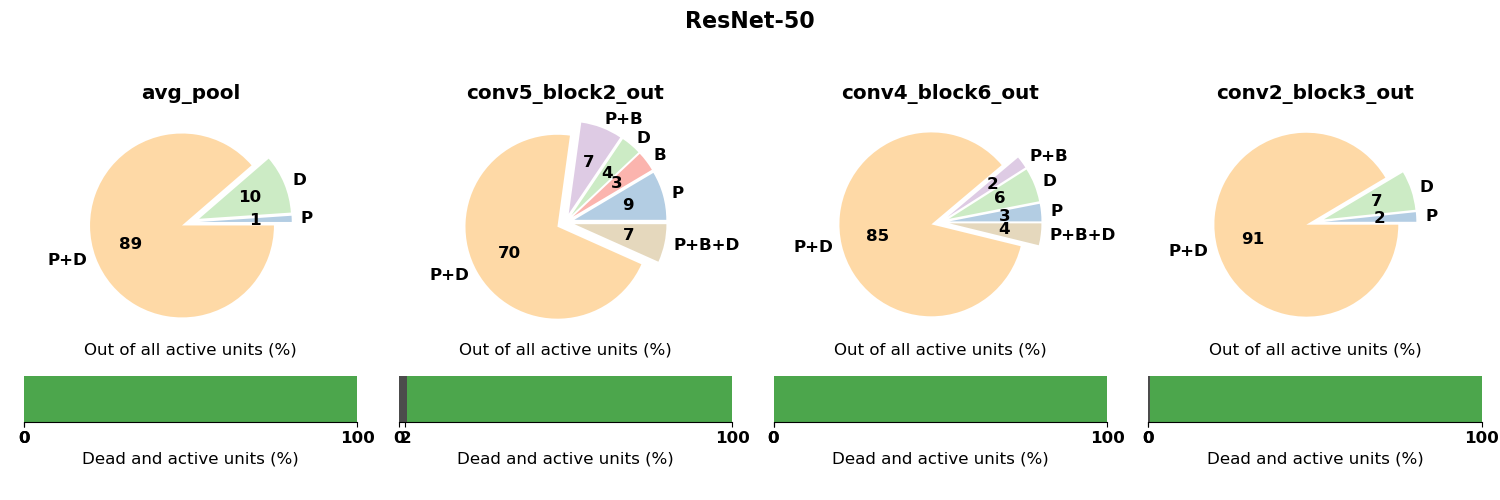
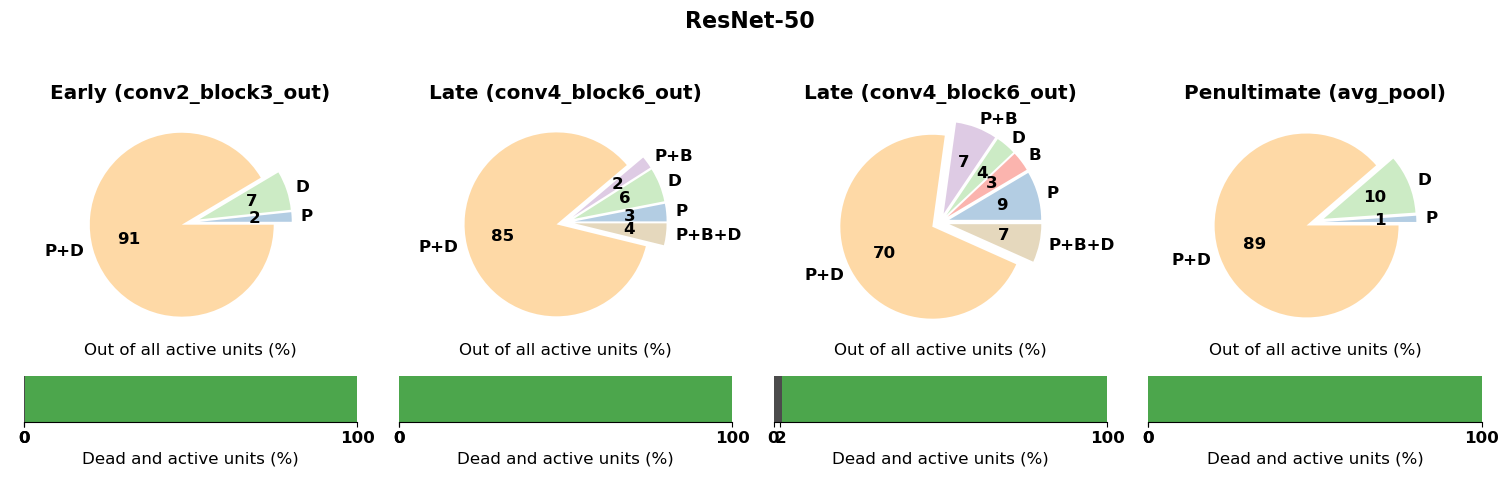
improve figs: make early-mid-late-penultimate for pies

diff --git a/figures_paper.py b/figures_paper.py
@@ -1780,11 +1780,42 @@ def unit_chart_visualization_piechart():
             )
 
             ax.set_xlabel('Out of all active units (%)')
-            ax.set_title(output_layer, fontweight='bold')
+            # ax.set_title(output_layer, fontweight='bold')
+            if model_name == 'vgg16': 
+                model_name_plot = 'VGG-16'
+                if output_layer == 'block2_pool':
+                    output_layer_plot = 'Early (block2_pool)'
+                elif output_layer == 'block4_pool':
+                    output_layer_plot = 'Mid (block4_pool)'
+                elif output_layer == 'block5_pool':
+                    output_layer_plot = 'Late (block5_pool)'
+                elif output_layer == 'fc2':
+                    output_layer_plot = 'Penultimate (fc2)'
+
+            elif model_name == 'resnet50': 
+                model_name_plot = 'ResNet-50'
+                if output_layer == 'conv2_block3_out':
+                    output_layer_plot = 'Early (conv2_block3_out)'
+                elif output_layer == 'conv3_block4_out':
+                    output_layer_plot = 'Mid (conv3_block4_out)'
+                elif output_layer == 'conv4_block6_out':
+                    output_layer_plot = 'Late (conv4_block6_out)'
+                elif output_layer == 'avg_pool':
+                    output_layer_plot = 'Penultimate (avg_pool)'
+
+            elif model_name == 'vit_b16': 
+                model_name_plot = 'ViT-B/16'
+                if output_layer == 'layer_3':
+                    output_layer_plot = 'Early (layer_3)'
+                elif output_layer == 'layer_6':
+                    output_layer_plot = 'Mid (layer_6)'
+                elif output_layer == 'layer_9':
+                    output_layer_plot = 'Late (layer_9)'
+                elif output_layer == 'layer_12':
+                    output_layer_plot = 'Penultimate (layer_12)'
+
+            ax.set_title(f'{output_layer_plot}', fontweight='bold')
             plt.tight_layout(rect=[0, 0.03, 1, 0.95])
-            if model_name == 'vgg16': model_name_plot = 'VGG-16'
-            elif model_name == 'resnet50': model_name_plot = 'ResNet-50'
-            elif model_name == 'vit_b16': model_name_plot = 'ViT-B/16'
 
 
             # second subplot: show proportion of dead and active units
